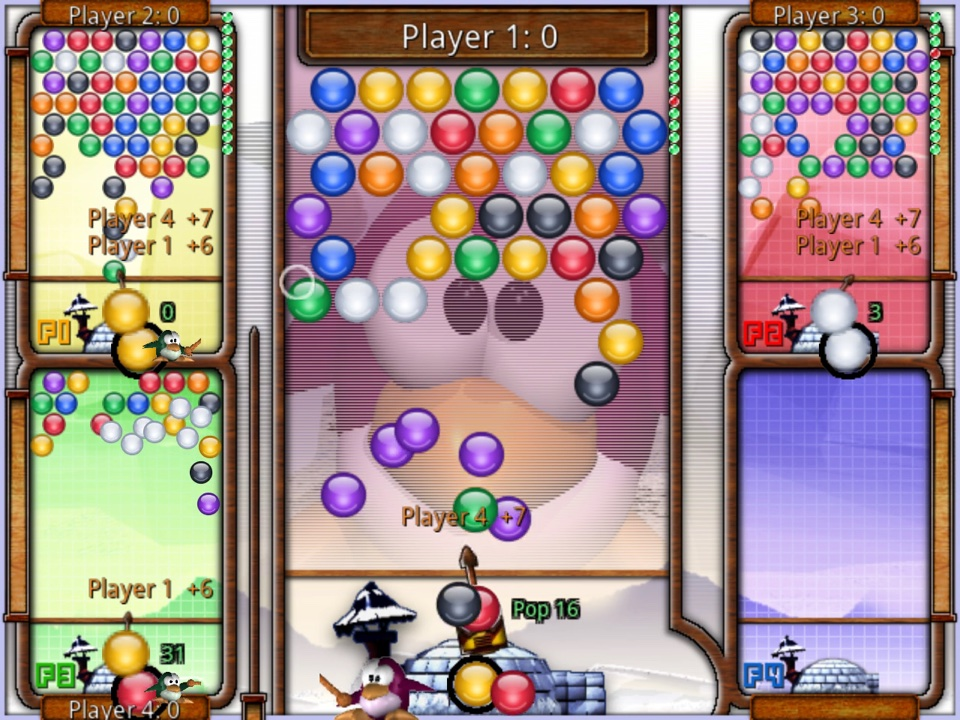
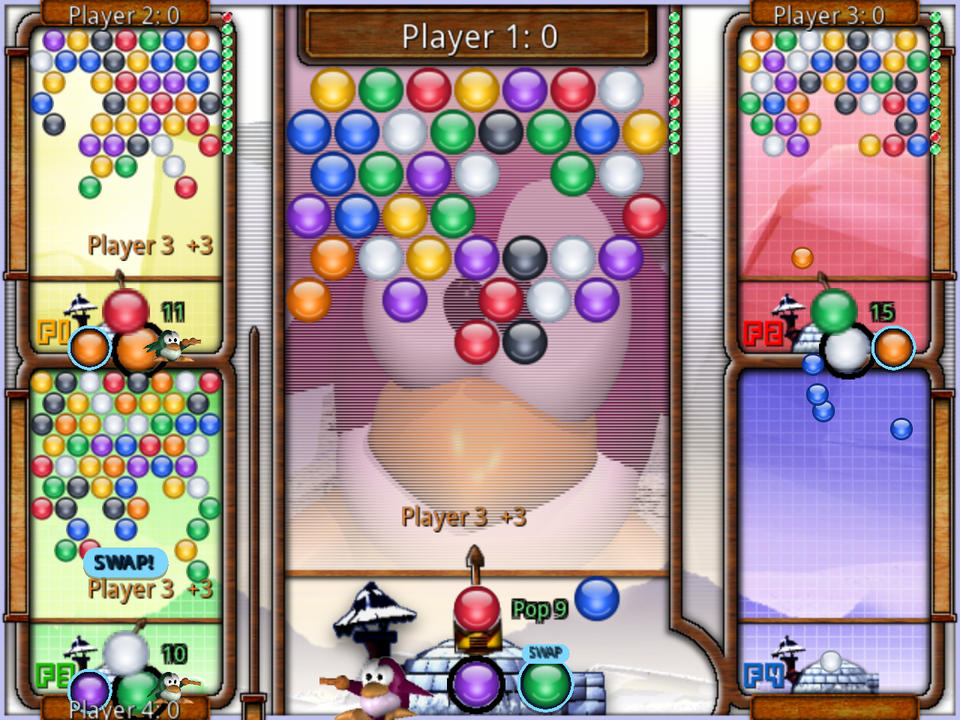
Screenshots: re-capture the 4-player local game with Swap pockets

diff --git a/README.md b/README.md
@@ -48,7 +48,7 @@ Every mode plays the same whether you're local or online, and the host can adjus
 > [CHANGELOG.md](CHANGELOG.md)); the mode has not had a full pass since.
 
 <p align="center">
-  <img src="docs/screenshots/local-4player.jpg" alt="A four-player local game: player 1's board in the middle, three opponents around it" width="400">
+  <img src="docs/screenshots/local-4player.jpg" alt="A four-player local game: player 1's board in the middle, three opponents around it, each with a Swap pocket" width="400">
   <img src="docs/screenshots/two-player-win.jpg" alt="The end of a 2-player round: You Win! with the round's stats along the top" width="400">
 </p>
 

diff --git a/docs/store-assets/README.md b/docs/store-assets/README.md
@@ -22,7 +22,8 @@
   4. `game-room`: an online game room in the modern menu style.
   5. `round-stats`: the post-round stats table with team totals.
   6. `level-cleared`: the level-cleared card with the time bonus.
-  7. `local-4player`: four players on one machine, original theme.
+  7. `local-4player`: four players on one machine, original theme, each
+     with a Swap pocket (re-captured 2026-10-06 from a piloted game).
   8. `title-menu`: the title screen.
 
 - **`icon-512.png`** (512×512, 24-bit RGB) — Play's high-res store icon. A
